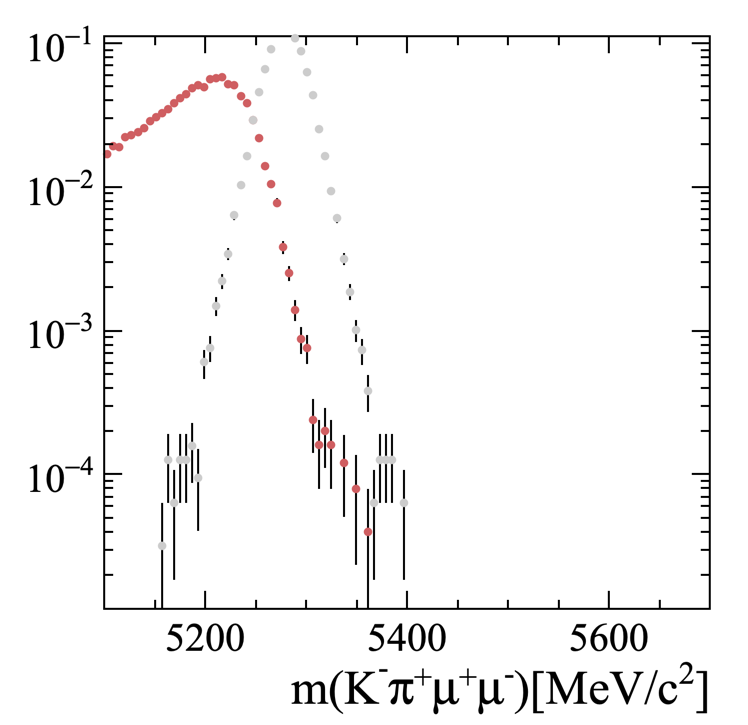
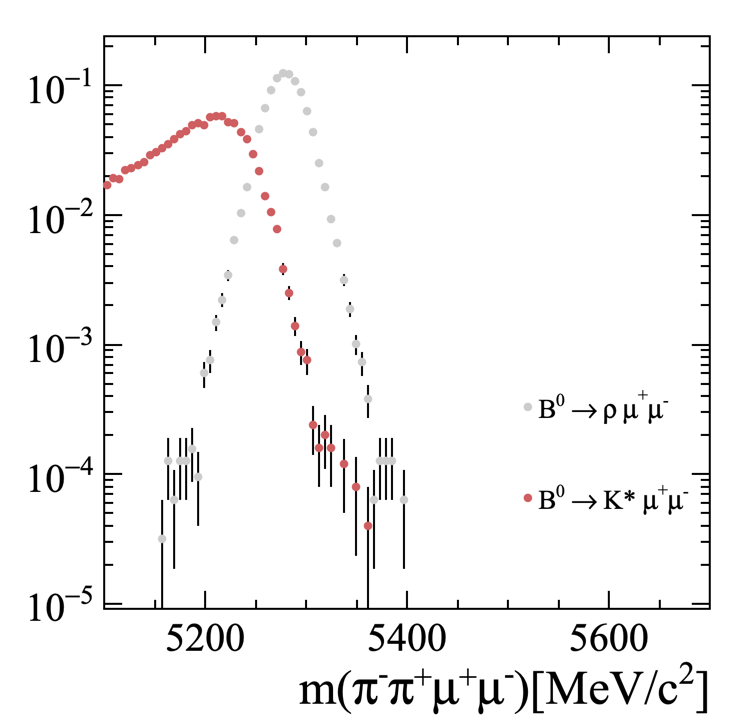
update with legends

diff --git a/mass_plots/LittleMassPlots.py b/mass_plots/LittleMassPlots.py
@@ -57,6 +57,36 @@ if __name__ == '__main__':
 
 
 
+     leg1 = ROOT.TLegend(0.70,0.25,0.75,0.5)
+     leg1.AddEntry(BsKstmm_mass_hist ," B_{s} #rightarrow K*#mu^{+}#mu^{-}","p")
+     leg1.AddEntry(BdKstmm_mass_hist ," B^{0} #rightarrow K*#mu^{+}#mu^{-}","p")
+     leg1.SetTextSize(0.04)
+     leg1.SetTextColor(1)
+
+
+
+     leg2 = ROOT.TLegend(0.20,0.25,0.75,0.5)
+     leg2.AddEntry(BsKstee_mass_hist ," B_{s} #rightarrow K* e^{+}e^{-}","p")
+     leg2.AddEntry(BdKstee_mass_hist ," B^{0} #rightarrow K* e^{+}e^{-}","p")
+     leg2.SetTextSize(0.04)
+     leg2.SetTextColor(1)
+
+
+     leg3 = ROOT.TLegend(0.70,0.25,0.75,0.5)
+     leg3.AddEntry(BdRhomm_mass_hist ," B^{0} #rightarrow #rho #mu^{+}#mu^{-}","p")
+     leg3.AddEntry(BdKstmm_mass_hist, " B^{0} #rightarrow K* #mu^{+}#mu^{-}","p")
+     leg3.SetTextSize(0.04)
+     leg3.SetTextColor(1)
+
+
+
+     leg4 = ROOT.TLegend(0.20,0.25,0.75,0.5)
+     leg4.AddEntry(BdRhoee_mass_hist ," B^{0} #rightarrow #rho e^{+}e^{-}","p")
+     leg4.AddEntry(BdKstee_mass_hist, " B^{0} #rightarrow K* e^{+}e^{-}","p")
+     leg4.SetTextSize(0.04)
+     leg4.SetTextColor(1)
+
+
      #Hallo little plots
      #K* family with muons
      cMuons =  ROOT.TCanvas ("cMuons","cMuons",750,750)
@@ -70,6 +100,7 @@ if __name__ == '__main__':
      tBsToKstmm.Draw("B_M*1000>>BsKstmm_mass_hist", "","SAME")
      BdKstmm_mass_hist.Scale(1./BdKstmm_mass_hist.Integral())
      BsKstmm_mass_hist.Scale(1./BsKstmm_mass_hist.Integral())
+     leg1.Draw("SAME")
      cMuons.SaveAs("plots/Kstmm.png")
      #K* family with electrons
      cElectrons =  ROOT.TCanvas ("cElectrons","cElectrons",750,750)
@@ -83,6 +114,7 @@ if __name__ == '__main__':
      tBsToKstee.Draw("B_M*1000>>BsKstee_mass_hist","","SAME")
      BdKstee_mass_hist.Scale(1./BdKstee_mass_hist.Integral())
      BsKstee_mass_hist.Scale(1./BsKstee_mass_hist.Integral())
+     leg2.Draw("SAME")
      cElectrons.SaveAs("plots/Kstee.png")
 
 
@@ -96,10 +128,12 @@ if __name__ == '__main__':
      BdRhomm_mass_hist.GetXaxis().SetTitle("m(#pi^{-}#pi^{+}#mu^{+}#mu^{-})[MeV/c^{2}]")
      BdRhomm_mass_hist.SetMarkerColor(17)
      BdKstmm_mass_hist.SetMarkerColor(46)
-     tBdToKstmm.Draw("B_M_K2pim*1000>>BdKstmm_mass_hist","","")
-     tBdToRhomm.Draw("B_M*1000>>BdRhomm_mass_hist", "","SAME")
+     tBdToRhomm.Draw("B_M*1000>>BdRhomm_mass_hist", "","")
+     tBdToKstmm.Draw("B_M_K2pim*1000>>BdKstmm_mass_hist","","SAME")
+
      BdKstmm_mass_hist.Scale(1./BdKstmm_mass_hist.Integral())
      BdRhomm_mass_hist.Scale(1./BdRhomm_mass_hist.Integral())
+     leg3.Draw("SAME")
      cMuonsRho.SaveAs("plots/Rhomm.png")
      #rho family with electrons
      cElectronsRho =  ROOT.TCanvas ("cElectronsRho","cElectronsRho",750,750)
@@ -109,9 +143,10 @@ if __name__ == '__main__':
      BdRhoee_mass_hist.GetXaxis().SetTitle("m(#pi^{-}#pi^{+}e^{+}e^{-})[MeV/c^{2}]")
      BdRhoee_mass_hist.SetMarkerColor(17)
      BdKstee_mass_hist.SetMarkerColor(46)
-     tBdToKstee.Draw("B_M_K2pim*1000>>BdKstee_mass_hist","","")
-     tBdToRhoee.Draw("B_M*1000>>BdRhoee_mass_hist", "","SAME")
+     tBdToRhoee.Draw("B_M*1000>>BdRhoee_mass_hist", "","")
+     tBdToKstee.Draw("B_M_K2pim*1000>>BdKstee_mass_hist","","SAME")
+
      BdKstee_mass_hist.Scale(1./BdKstee_mass_hist.Integral())
      BdRhoee_mass_hist.Scale(1./BdRhoee_mass_hist.Integral())
-
+     leg4.Draw("SAME")
      cElectronsRho.SaveAs("plots/Rhoee.png")
